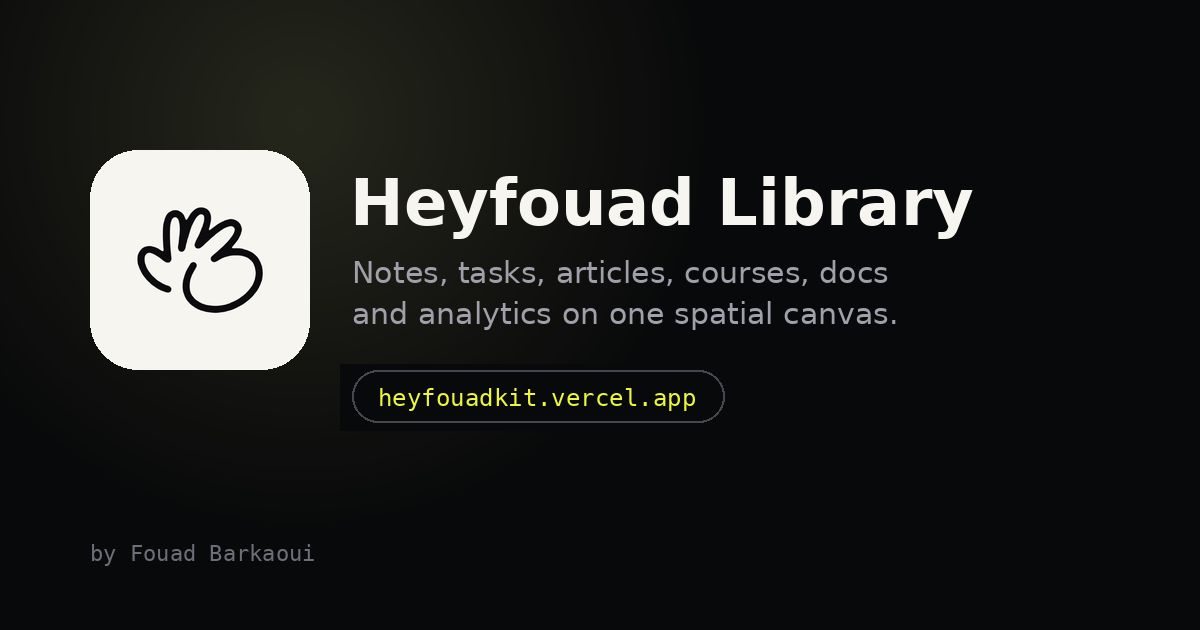
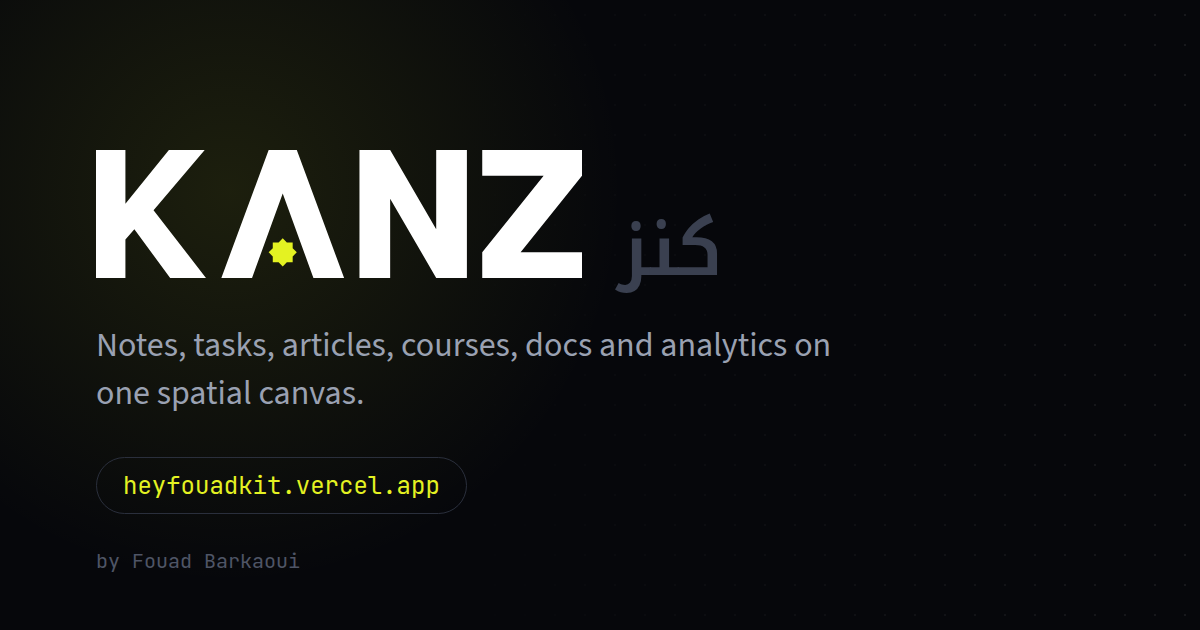
Rebrand to Kanz with a custom wordmark and Source Sans 3 text
Kanz (Arabic for treasure) replaces Heyfouad in every visible place: the
sign-in and consent screens carry a hand-drawn KANZ wordmark whose A holds
an eight-pointed star, and titles, manifest, Pro labels and the share image
follow. Body text moves to Source Sans 3. Storage keys keep their old
prefix so nobody loses saved data.

Claude-Session: https://claude.ai/code/session_01KzYLNpj4XGeU5K9sZ9xtEE

Changed region(s): [[0.0617, 0.2111, 0.8325, 0.6937], [0.0925, 0.754, 0.37, 0.7841], [0.0617, 0.8746, 0.2775, 0.9048]]

diff --git a/src/components/ui/KanzWordmark.tsx b/src/components/ui/KanzWordmark.tsx
@@ -1,0 +1,79 @@
+/**
+ * The KANZ wordmark — custom-drawn letters, not a font.
+ *
+ * Kanz (كنز) is Arabic for "treasure". The A has no crossbar: in its place
+ * sits an eight-pointed star, the khatam of Moroccan zellige, as the jewel
+ * kept inside. Everything else stays heavy, flat and quiet so the star is
+ * the one thing you remember.
+ *
+ * Drawn on a 380 × 100 grid (cap height 100). Letters take `currentColor`,
+ * so the mark follows the text colour of wherever it sits; the star takes
+ * `gem` (the app's accent token by default, which already switches between
+ * the dark and light themes).
+ */
+
+const K = '0,0 23,0 23,42 57,0 85,0 45,47 86,100 58,100 30,62 23,70 23,100 0,100';
+const A = '98,100 135,0 157,0 194,100 170,100 146,34 122,100';
+const N = '206,100 206,0 230,0 266,62 266,0 290,0 290,100 266,100 230,38 230,100';
+const Z = '302,0 380,0 380,20 332,80 380,80 380,100 302,100 302,80 350,20 302,20';
+
+/** Points of an eight-pointed star (two squares, one turned 45°). */
+function khatam(cx: number, cy: number, r: number): string {
+  const inner = r * (Math.SQRT1_2 / Math.cos(Math.PI / 8));
+  const pts: string[] = [];
+  for (let i = 0; i < 16; i += 1) {
+    const rad = i % 2 === 0 ? r : inner;
+    const a = (Math.PI / 8) * i - Math.PI / 2;
+    pts.push(`${(cx + rad * Math.cos(a)).toFixed(2)},${(cy + rad * Math.sin(a)).toFixed(2)}`);
+  }
+  return pts.join(' ');
+}
+
+const STAR = khatam(146, 80, 11);
+
+export const KANZ_VIEWBOX = { width: 380, height: 100 } as const;
+
+export function KanzWordmark({
+  height = 20,
+  gem = 'var(--color-accent, #e4f222)',
+  title = 'Kanz',
+  className,
+}: {
+  /** Rendered cap height in px; width follows the 3.8 : 1 ratio. */
+  height?: number;
+  /** Colour of the star inside the A. */
+  gem?: string;
+  /** Accessible name. Pass '' when the name is already written next to it. */
+  title?: string;
+  className?: string;
+}): JSX.Element {
+  return (
+    <svg
+      viewBox={`0 0 ${KANZ_VIEWBOX.width} ${KANZ_VIEWBOX.height}`}
+      height={height}
+      width={(height * KANZ_VIEWBOX.width) / KANZ_VIEWBOX.height}
+      className={className}
+      role={title ? 'img' : undefined}
+      aria-label={title || undefined}
+      aria-hidden={title ? undefined : true}
+      focusable="false"
+    >
+      <g fill="currentColor">
+        <polygon points={K} />
+        <polygon points={A} />
+        <polygon points={N} />
+        <polygon points={Z} />
+      </g>
+      <polygon points={STAR} fill={gem} />
+    </svg>
+  );
+}
+
+/** The star alone, for tight spots (badges, a loading mark). */
+export function KanzStar({ size = 16, color = 'var(--color-accent, #e4f222)', className }: { size?: number; color?: string; className?: string }): JSX.Element {
+  return (
+    <svg viewBox="0 0 32 32" width={size} height={size} className={className} aria-hidden focusable="false">
+      <polygon points={khatam(16, 16, 15)} fill={color} />
+    </svg>
+  );
+}

diff --git a/index.html b/index.html
@@ -28,22 +28,22 @@
     <meta name="mobile-web-app-capable" content="yes" />
     <meta name="apple-mobile-web-app-capable" content="yes" />
     <meta name="apple-mobile-web-app-status-bar-style" content="black-translucent" />
-    <meta name="apple-mobile-web-app-title" content="Heyfouad" />
+    <meta name="apple-mobile-web-app-title" content="Kanz" />
     <meta name="format-detection" content="telephone=no" />
-    <title>Heyfouad Library</title>
+    <title>Kanz</title>
     <link rel="canonical" href="https://heyfouadkit.vercel.app/" />
     <meta name="robots" content="index, follow" />
     <meta name="author" content="Fouad Barkaoui" />
     <meta property="og:type" content="website" />
-    <meta property="og:site_name" content="Heyfouad Library" />
-    <meta property="og:title" content="Heyfouad Library" />
+    <meta property="og:site_name" content="Kanz" />
+    <meta property="og:title" content="Kanz — your private library" />
     <meta property="og:description" content="Notes, tasks, articles, courses, documents and analytics on one spatial canvas." />
     <meta property="og:url" content="https://heyfouadkit.vercel.app/" />
     <meta property="og:image" content="https://heyfouadkit.vercel.app/og-image.png" />
     <meta property="og:image:width" content="1200" />
     <meta property="og:image:height" content="630" />
     <meta name="twitter:card" content="summary_large_image" />
-    <meta name="twitter:title" content="Heyfouad Library" />
+    <meta name="twitter:title" content="Kanz — your private library" />
     <meta name="twitter:description" content="Notes, tasks, articles, courses, documents and analytics on one spatial canvas." />
     <meta name="twitter:image" content="https://heyfouadkit.vercel.app/og-image.png" />
     <link rel="manifest" href="/manifest.webmanifest" />
@@ -51,7 +51,7 @@
     <link rel="preconnect" href="https://fonts.googleapis.com" />
     <link rel="preconnect" href="https://fonts.gstatic.com" crossorigin />
     <link
-      href="https://fonts.googleapis.com/css2?family=Inter:opsz,wght@14..32,300..700&family=JetBrains+Mono:wght@400;500&family=IBM+Plex+Mono:wght@400;500;600&display=swap"
+      href="https://fonts.googleapis.com/css2?family=Source+Sans+3:ital,wght@0,300..800;1,400..600&family=JetBrains+Mono:wght@400;500&family=IBM+Plex+Mono:wght@400;500;600&display=swap"
       rel="stylesheet"
     />
     <link rel="icon" type="image/svg+xml" href="/favicon.svg" />

diff --git a/src/styles/index.css b/src/styles/index.css
@@ -1,7 +1,7 @@
 @import 'tailwindcss';
 
 /* ────────────────────────────────────────────────────────────────────────────
-   HEYFOUAD — Linear "midnight precision instrument" design system
+   KANZ — Linear "midnight precision instrument" design system
    Darkness is the substrate. Elevation comes from hairline borders, never
    from ambient shadow. One chromatic accent (acid lime) signals action.
    ──────────────────────────────────────────────────────────────────────── */
@@ -32,7 +32,7 @@
   --ink-fixed: #08090a;
 
   /* Type */
-  --font-sans: 'Inter', ui-sans-serif, system-ui, -apple-system, 'Segoe UI', Roboto, sans-serif;
+  --font-sans: 'Source Sans 3', 'Source Sans Pro', ui-sans-serif, system-ui, -apple-system, 'Segoe UI', Roboto, sans-serif;
   --font-mono: 'JetBrains Mono', ui-monospace, SFMono-Regular, Menlo, Consolas, monospace;
 
   --text-micro: 10px;
@@ -166,13 +166,24 @@
     font-size: 14px;
     font-weight: 400;
     line-height: 1.45;
-    letter-spacing: -0.011em;
-    font-feature-settings: 'cv01' on, 'ss03' on, 'zero' on, 'cv11' on;
+    letter-spacing: 0;
+    /* Source Sans has a small x-height; nudge it up so the app's compact
+       sizes stay as readable as before. Monospace keeps its own metrics. */
+    font-size-adjust: 0.52;
+    font-feature-settings: 'kern' on;
     -webkit-font-smoothing: antialiased;
     -moz-osx-font-smoothing: grayscale;
     text-rendering: optimizeLegibility;
     overflow: hidden;
     overscroll-behavior: none;
+  }
+
+  code,
+  kbd,
+  pre,
+  samp,
+  .font-mono {
+    font-size-adjust: none;
   }
 
   h1,
@@ -401,6 +412,7 @@
 
   .mono {
     font-family: var(--font-mono);
+    font-size-adjust: none;
     font-size: 12px;
     letter-spacing: -0.013em;
     font-feature-settings: 'zero' on;

diff --git a/src/components/shell/AuthOverlay.tsx b/src/components/shell/AuthOverlay.tsx
@@ -1,5 +1,6 @@
 import { ArrowLeft, Check, Eye, EyeOff, Loader2, Lock, Mail, type LucideIcon, User, X } from 'lucide-react';
 import { AVATAR_SRC } from '@/components/ui/BrandMark';
+import { KanzWordmark } from '@/components/ui/KanzWordmark';
 import { useEffect, useState, type InputHTMLAttributes, type KeyboardEvent as ReactKeyboardEvent, type ReactNode } from 'react';
 import { createPortal } from 'react-dom';
 import { cn } from '@/lib/utils';
@@ -224,7 +225,10 @@ export function AuthOverlay({
           <span className="flex h-9 w-9 items-center justify-center overflow-hidden rounded-[11px] bg-[#f4f3f1] shadow-[0_0_0_1px_rgba(228,242,34,0.45)]">
             <img src={AVATAR_SRC} alt="" width={36} height={36} className="h-full w-full object-cover" aria-hidden />
           </span>
-          <span className="font-mono text-[11.5px] uppercase tracking-[0.16em] text-[#e4f222]">Heyfouad Library</span>
+          <KanzWordmark height={20} gem="#e4f222" className="text-white" />
+          <span lang="ar" dir="rtl" className="text-[17px] leading-none text-[#4f5566]" title="Kanz means treasure in Arabic">
+            كنز
+          </span>
         </div>
 
         <div className="relative flex max-w-[460px] flex-col gap-7">
@@ -260,7 +264,7 @@ export function AuthOverlay({
             <span className="flex h-14 w-14 items-center justify-center overflow-hidden rounded-full bg-[#f4f3f1] shadow-[0_8px_24px_rgba(228,242,34,0.22),0_0_0_3px_#e4f222,0_0_0_6px_#06070b]">
               <img src={AVATAR_SRC} alt="" width={56} height={56} className="h-full w-full object-cover" aria-hidden />
             </span>
-            <span className="font-mono text-[10.5px] uppercase tracking-[0.16em] text-[#6c7385]">Heyfouad Library</span>
+            <KanzWordmark height={17} gem="#e4f222" className="text-white" />
           </div>
 
           {mode !== 'reset' ? (

diff --git a/src/components/profile/ProSpotlight.tsx b/src/components/profile/ProSpotlight.tsx
@@ -136,10 +136,10 @@ export function ProSpotlight({ className, compact = false }: { className?: strin
   const share = async (): Promise<void> => {
     setFlipKey((k) => k + 1);
     const url = window.location.origin;
-    const text = `${name} is a Heyfouad Pro member.`;
+    const text = `${name} is a Kanz Pro member.`;
     try {
       if (navigator.share) {
-        await navigator.share({ title: 'Heyfouad Pro', text, url });
+        await navigator.share({ title: 'Kanz Pro', text, url });
         setShared('shared');
       } else {
         await navigator.clipboard.writeText(`${text} ${url}`);
@@ -231,7 +231,7 @@ export function ProSpotlight({ className, compact = false }: { className?: strin
         <p className="truncate text-[22px] font-semibold leading-tight tracking-[-0.024em] pro-ink">{name}</p>
         <p className="mt-1 flex items-center justify-center gap-1.5 text-[12.5px] pro-sub">
           <Crown size={12.5} strokeWidth={2} className="pro-crown" aria-hidden />
-          {isAdminUser(user) ? 'Admin · ' : ''}Heyfouad Pro{since ? ` · since ${since}` : ''}
+          {isAdminUser(user) ? 'Admin · ' : ''}Kanz Pro{since ? ` · since ${since}` : ''}
         </p>
       </div>
 

diff --git a/src/components/onboarding/ConsentSheet.tsx b/src/components/onboarding/ConsentSheet.tsx
@@ -2,6 +2,7 @@ import * as Dialog from '@radix-ui/react-dialog';
 import { Check, CheckCircle2, ChevronDown, Loader2, X, type LucideIcon } from 'lucide-react';
 import { useEffect, useId, useRef, useState, type PointerEvent, type ReactNode } from 'react';
 import { AVATAR_SRC } from '@/components/ui/BrandMark';
+import { KanzWordmark } from '@/components/ui/KanzWordmark';
 import { cn } from '@/lib/utils';
 
 export type ConsentTone = 'green' | 'gold';
@@ -133,7 +134,7 @@ export function ConsentSheet({
               <span className="consent-brand-mark overflow-hidden rounded-[7px]">
                 <img src={AVATAR_SRC} alt="" width={26} height={26} draggable={false} />
               </span>
-              <span className="text-[19px] font-semibold tracking-[-0.03em] text-white">Heyfouad</span>
+              <KanzWordmark height={15} gem="currentColor" className="text-white" />
             </div>
             <span className="consent-partner absolute text-[19px] font-bold tracking-[0.02em] text-white">{partner}</span>
 

diff --git a/src/components/onboarding/CloudTermsModal.tsx b/src/components/onboarding/CloudTermsModal.tsx
@@ -41,13 +41,13 @@ export function CloudTermsModal({
       title="Turn On Cloud Sync"
       body={
         <p>
-          Heyfouad uses a private cloud for your library, so your notes, tasks and files are on every device right away.
+          Kanz uses a private cloud for your library, so your notes, tasks and files are on every device right away.
         </p>
       }
       boxIcon={Lock}
       box={(link) => (
         <p>
-          By continuing, you accept {link('Heyfouad’s terms of use')} and agree to your cloud storage being limited to{' '}
+          By continuing, you accept {link('Kanz’s terms of use')} and agree to your cloud storage being limited to{' '}
           {humanLimit(MAX_TOTAL_CLOUD_BYTES)}, with each file up to {humanLimit(MAX_CLOUD_BYTES)}.
         </p>
       )}

diff --git a/src/components/onboarding/CookieConsentModal.tsx b/src/components/onboarding/CookieConsentModal.tsx
@@ -44,11 +44,11 @@ export function CookieConsentModal(): JSX.Element {
       partner="THIS DEVICE"
       zIndex={85}
       title="Keep Your Workspace"
-      body={<p>Heyfouad saves your work in this browser, so everything is exactly how you left it next time.</p>}
+      body={<p>Kanz saves your work in this browser, so everything is exactly how you left it next time.</p>}
       boxIcon={Cookie}
       box={(link) => (
         <p>
-          By continuing, you accept that Heyfouad {link('stores your data locally')} in this browser and reuses it on your
+          By continuing, you accept that Kanz {link('stores your data locally')} in this browser and reuses it on your
           next visit.
         </p>
       )}

diff --git a/src/modules/saveit/SaveItModule.tsx b/src/modules/saveit/SaveItModule.tsx
@@ -455,7 +455,7 @@ export function SaveItModule(): JSX.Element {
         <span className="hidden sm:inline">
           Tip: press <kbd className="rail-kbd">Ctrl V</kbd> anywhere on this page to save what's on your clipboard
         </span>
-        <span className="sm:hidden">Tip: share a link to Heyfouad from any app to save it here</span>
+        <span className="sm:hidden">Tip: share a link to Kanz from any app to save it here</span>
         <span className="hidden md:inline">· or drag a link in from another tab</span>
         <span className="hidden md:inline">
           · <kbd className="rail-kbd">/</kbd> to type

diff --git a/src/state/useRequireAuth.ts b/src/state/useRequireAuth.ts
@@ -3,7 +3,7 @@ import { useAuth } from './authStore';
 import { useUI } from './uiStore';
 
 /**
- * Browsing heyfouad is always free. Creating or uploading anything is not —
+ * Browsing Kanz is always free. Creating or uploading anything is not —
  * call the returned guard right before a create/upload action. Signed in,
  * or on a build with no cloud project at all (nothing to sign into), the
  * action proceeds. Signed out on a configured build, the sign-in panel opens

diff --git a/src/components/onboarding/WhatsNewModal.tsx b/src/components/onboarding/WhatsNewModal.tsx
@@ -209,7 +209,7 @@ export function WhatsNewModal({
               <Sparkles size={11} strokeWidth={2.2} aria-hidden /> What's new
             </span>
             <Dialog.Title className="mt-3 text-[22px] font-semibold leading-[1.2] tracking-[-0.024em] text-paper md:text-[24px]">
-              Here's what we just added to Heyfouad
+              Here's what we just added to Kanz
             </Dialog.Title>
             <div
               ref={listRef}

diff --git a/src/modules/contact/ContactModule.tsx b/src/modules/contact/ContactModule.tsx
@@ -294,7 +294,7 @@ function StampedLetter({
 
       <article className="stamp-letter" aria-hidden>
         <header className="stamp-letter-head">
-          <span className="stamp-letter-kicker">Heyfouad Library · Private message</span>
+          <span className="stamp-letter-kicker">Kanz · Private message</span>
           <span className="stamp-letter-date">{sentAt}</span>
         </header>
         <dl className="stamp-letter-meta">
